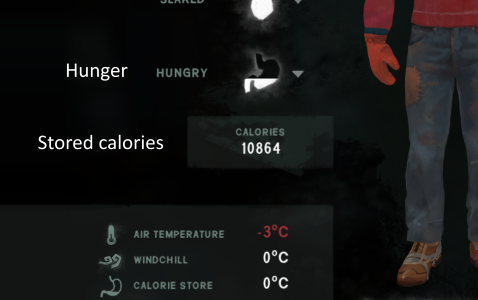
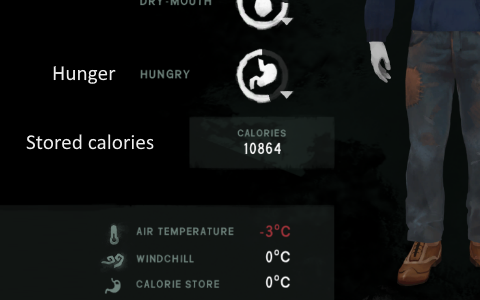
Update the screenshots and the readme

diff --git a/README.md b/README.md
@@ -21,8 +21,8 @@ But if you starve yourself for too long, you can take up to 5% damage per hour.
 
 **Stored calories**, on the other hand, represent the player's body fat and thus change rather slowly.
 In total, one can store up to 20 000 calories in body fat, which is about a week's worth of energy.
-Staying well-nourished by keeping the hunger bar full for some time will slowly accumulate stored calories.
-If you're starving, on the other hand, the stored calories are slowly drained into the hunger bar.
+Staying well-nourished by keeping the hunger bar full (indicated by a small, green plus sign) for some time will slowly accumulate stored calories.
+If you're hungry (indicated by a red minus sign), on the other hand, the stored calories are slowly drained into the hunger bar.
 
 That means that if you have lots and lots of stored calories, your hunger bar won't empty all the way,
 shielding you from most starvation damage. If you have very few stored calories,
@@ -53,7 +53,7 @@ survive trivial, even in Interloper. By not being able to cheat the hunger syste
 survival is much more of a challenge.
 
 If HungerRevamped still doesn't make this aspect of the game interesting enough,
-consider getting [WildlifeBegone](https://github.com/zeobviouslyfakeacc/MiniMods/releases).
+consider getting [WildlifeBegone](https://github.com/zeobviouslyfakeacc/WildlifeBegone/releases).
 This mod makes wildlife much rarer, delaying (or maybe even getting rid of) that point
 in the game where you find yourself with a huge pile of food and nothing to do.
 
@@ -62,6 +62,8 @@ in the game where you find yourself with a huge pile of food and nothing to do.
 You'll start with 12 000 stored calories. That means that you'll have a buffer period at the start
 of the game during which you don't need to consume much food. This is especially useful in Interloper,
 where you find very little food until you can craft a bow and hunt game.
+
+If you're playing a custom mode game, you can also customize how many calories you start with.
 
 #### Travelling
 
@@ -94,6 +96,6 @@ but the amount of calories stored in body fat will be lost.
 
 ### Recommendations
 
-- Don't play in Pilgrim. A better hunger system really doesn't matter if you only consume 50 calories per hour.
-- Consider getting [EnableStatusBarPercentages](https://github.com/zeobviouslyfakeacc/MiniMods/releases).
+- Don't play on Pilgrim. A better hunger system really doesn't matter if you only consume 50 calories per hour.
+- Consider getting [EnableStatusBarPercentages](https://github.com/zeobviouslyfakeacc/EnableStatusBarPercentages/releases).
   It lets you see the exact fill levels of your status bar in the status / first aid screen.
